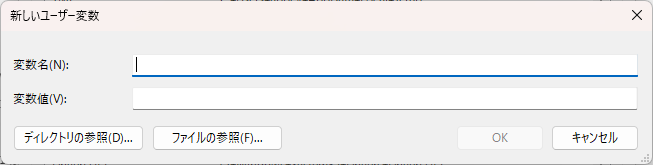
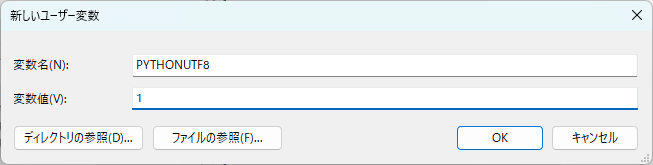
Japanese env

diff --git a/japanese_env.htm b/japanese_env.htm
@@ -104,7 +104,10 @@ alt="グラフィカル ユーザー インターフェイス, テキスト, ア
 
 <p class=MsoNormal align=left style='text-align:left'><span lang=EN-US><img
 width=653 height=165 id="図 1" src="japanese_env.files/image003.png"
-alt="グラフィカル ユーザー インターフェイス, アプリケーション&#10;&#10;自動的に生成された説明"></span></p>
+alt="グラフィカル ユーザー インターフェイス, アプリケーション&#10;&#10;自動的に生成された説明"> </span></p>
+
+<p class=MsoNormal align=left style='text-align:left'>この設定により、全ての<span
+lang=EN-US>Python</span>プログラムの日本語文字コードは、<span lang=EN-US>UTF8</span>形式であることが想定されることになる。</p>
 
 <p class=MsoNormal align=left style='text-align:left'><span lang=EN-US>&nbsp;</span></p>
 
